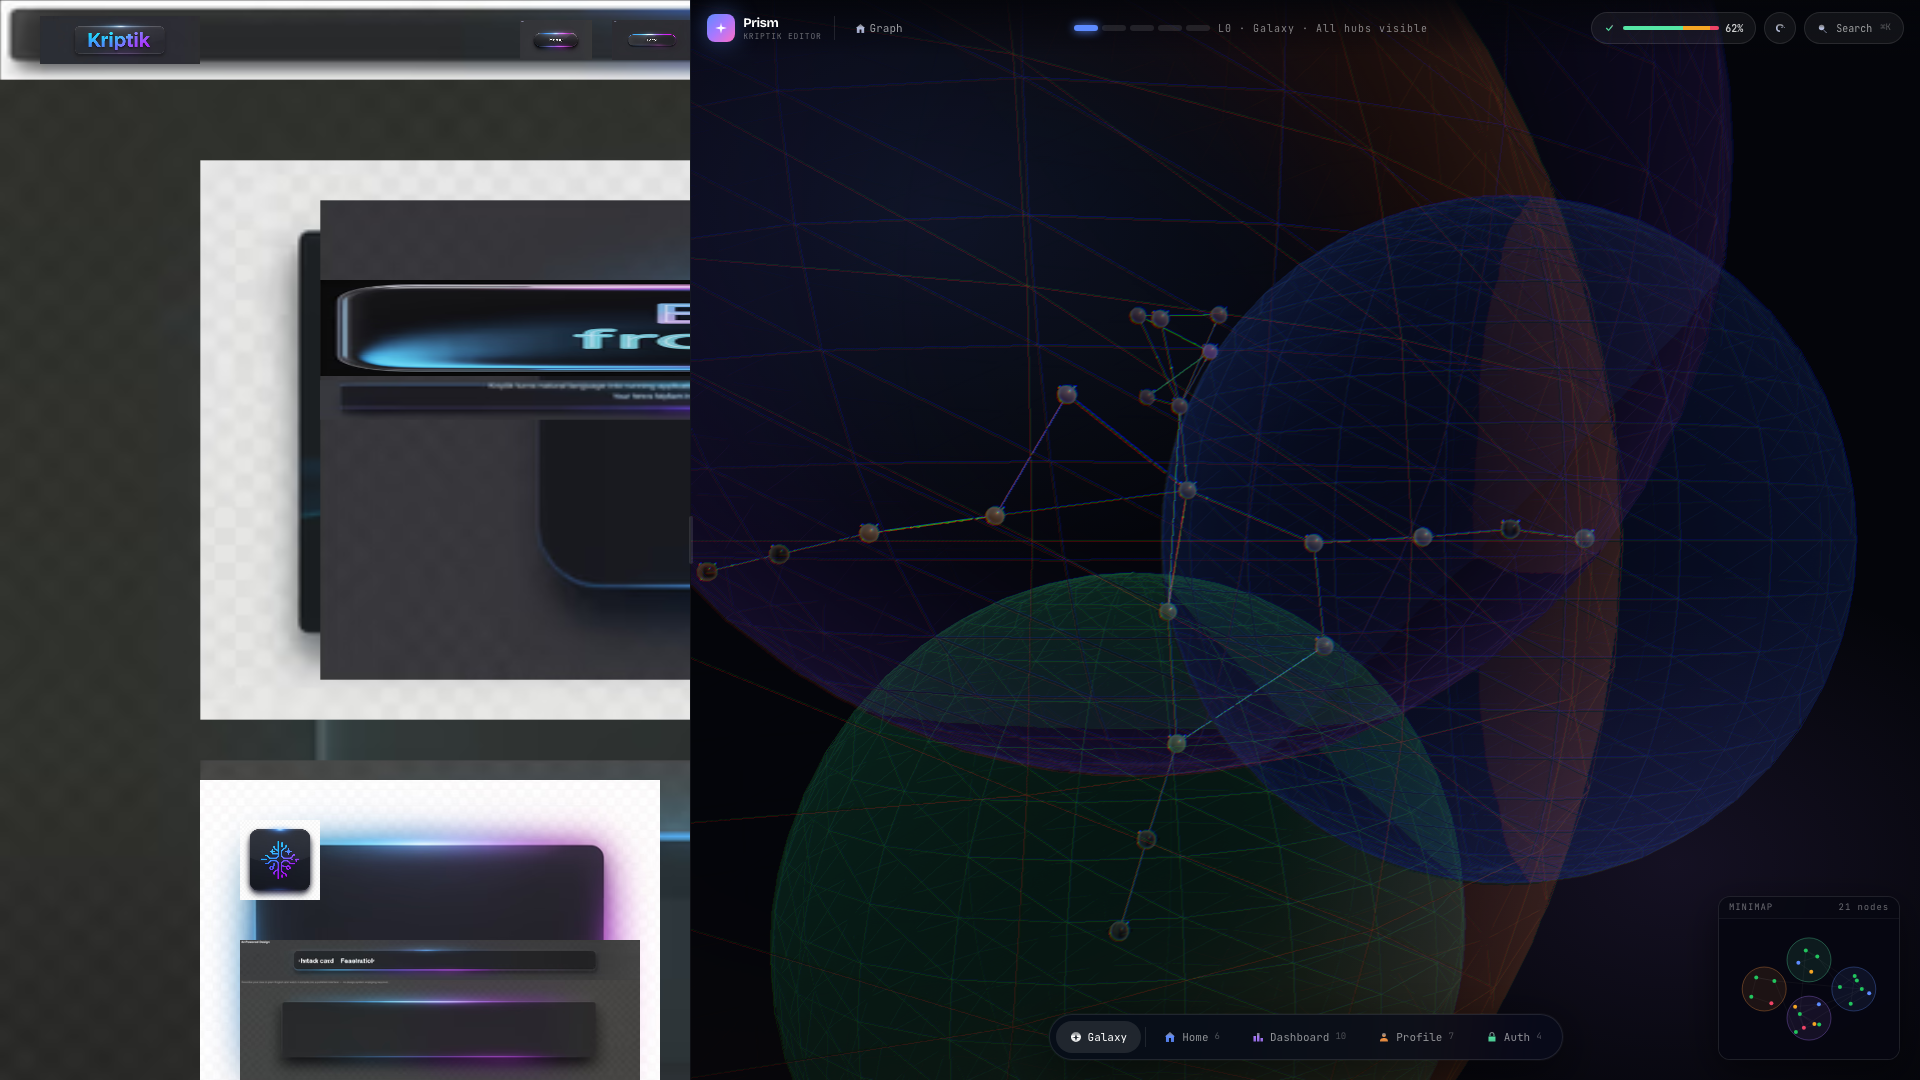
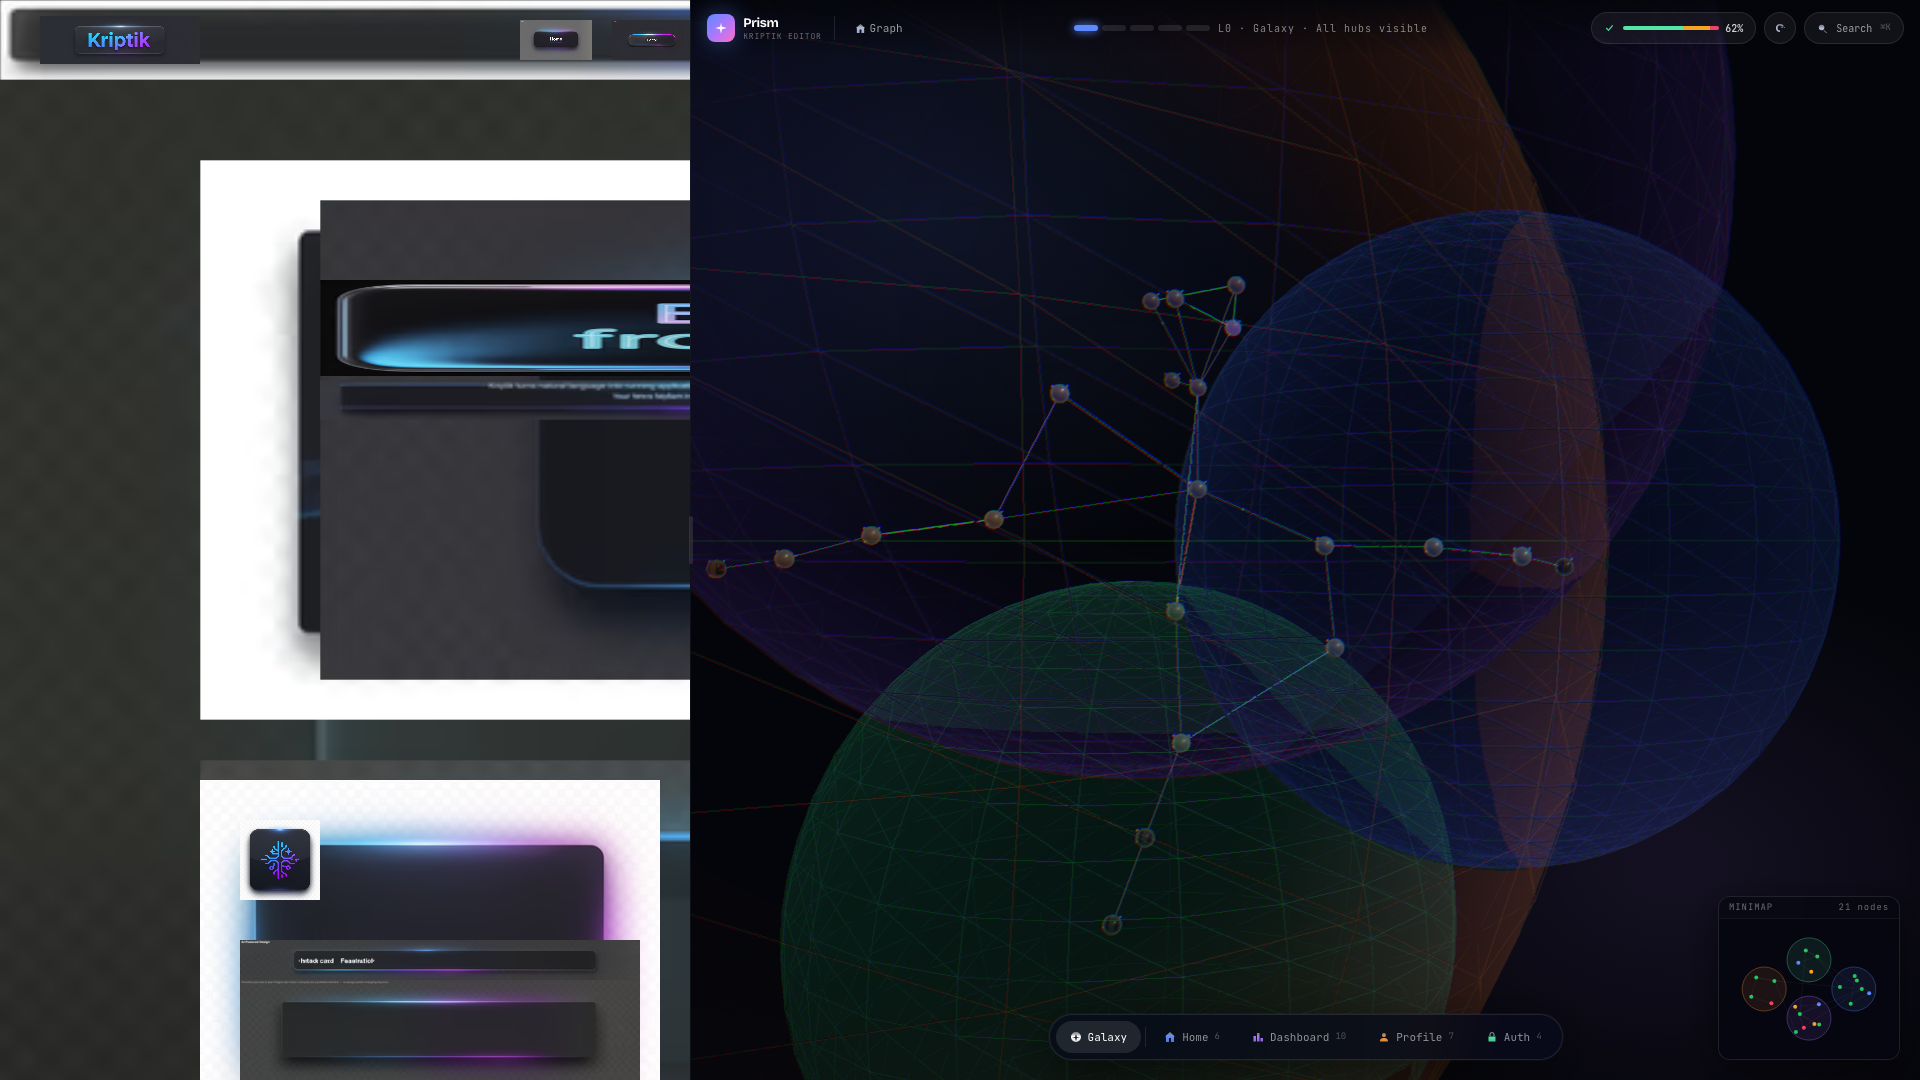
prism-mock: T01 — hub-router nav scroll + active-section indicator (§10.14)
New src/lib/prism/player/hub-router.ts resolves 'navigate' events from navbar-
link / navbar-logo / footer-link nodes into GSAP-driven viewport scrolls and
broadcasts 'active-section-changed' so navbar-link nodes latch their 'active'
overlay.

- scroll-viewport: expose getScrollY() for tests + debug.
- boot.ts: instantiate router after node materialization (so listeners are
  already registered when the initial active-section-changed emits); expose
  window.__prism = { router, viewport, events, graph, nodes } debug handle;
  tear down in unmount alongside __prismBreakNode.
- navbar-link.js: listen for 'active-section-changed'; when activeNavLinkId
  matches nodeId, make 'active' the resting sprite so pointerout reverts to
  it. pointerover/pointerdown overlays still fire for live feedback. Expose
  container.__debug.getLocked() for the §10.14 acceptance test.
- Route table (boot.ts buildHomeHubRoutes) derives scroll targets from graph
  section-bg node y positions so edits to home-hub.json propagate.

diff --git a/kid-kode-landing/src/lib/prism/player/boot.ts b/kid-kode-landing/src/lib/prism/player/boot.ts
@@ -17,8 +17,9 @@ import { loadAtlas, type Atlas } from './atlas-loader';
 import { loadMsdfFont, type MsdfFont } from './msdf-loader';
 import { loadNodeModule, type NodeCtx, type NodeInstance } from './module-registry';
 import { createScrollViewport, type ScrollViewport } from './scroll-viewport';
-import { createEventBus } from './event-bus';
+import { createEventBus, type EventBus } from './event-bus';
 import { createStateManager } from './state-manager';
+import { createHubRouter, type HubRoute, type HubRouter } from './hub-router';
 import { createLocalBackend } from '../local-backend';
 import { createShr, type Shr } from '../shr';
 
@@ -30,12 +31,50 @@ export interface MountResult {
   atlas: Atlas;
   msdfFont: MsdfFont | null;
   shr: Shr;
+  router: HubRouter;
   unmount: () => void;
+}
+
+export interface PrismDebugHandle {
+  router: HubRouter;
+  viewport: ScrollViewport;
+  events: EventBus;
+  graph: CompiledGraph;
+  nodes: Map<string, NodeInstance>;
 }
 
 declare global {
   // eslint-disable-next-line no-var
   var __prismBreakNode: ((nodeId: string) => void) | undefined;
+  // eslint-disable-next-line no-var
+  var __prism: PrismDebugHandle | undefined;
+}
+
+// Section routing table for the home hub. Each entry says "when node X emits
+// `navigate`, scroll to Y and light up navbar link Z". Scroll targets are
+// resolved from the graph at boot (hero-section-bg, feature-grid-section-bg,
+// settings-section-bg, footer-bg) so they track layout edits.
+function buildHomeHubRoutes(graph: CompiledGraph): HubRoute[] {
+  const yOf = (nodeId: string, fallback: number) => {
+    const node = graph.nodes.find((n) => n.nodeId === nodeId);
+    return node?.visual?.transform?.y ?? fallback;
+  };
+  const heroY     = yOf('hero-section-bg',         160);
+  const featuresY = yOf('feature-grid-section-bg', 760);
+  const settingsY = yOf('settings-section-bg',    1600);
+  const footerY   = yOf('footer-bg',              2200);
+
+  return [
+    { sourceNodeId: 'navbar-link-home',    scrollY: 0,         sectionId: 'home',     activeNavLinkId: 'navbar-link-home'    },
+    { sourceNodeId: 'navbar-link-editor',  scrollY: heroY,     sectionId: 'hero',     activeNavLinkId: 'navbar-link-editor'  },
+    { sourceNodeId: 'navbar-link-docs',    scrollY: featuresY, sectionId: 'features', activeNavLinkId: 'navbar-link-docs'    },
+    { sourceNodeId: 'navbar-link-pricing', scrollY: settingsY, sectionId: 'settings', activeNavLinkId: 'navbar-link-pricing' },
+    { sourceNodeId: 'navbar-logo',         scrollY: 0,         sectionId: 'home',     activeNavLinkId: 'navbar-link-home'    },
+    { sourceNodeId: 'footer-logo',         scrollY: 0,         sectionId: 'home',     activeNavLinkId: 'navbar-link-home'    },
+    { sourceNodeId: 'footer-link-privacy', scrollY: footerY,   sectionId: 'footer',   activeNavLinkId: null                  },
+    { sourceNodeId: 'footer-link-terms',   scrollY: footerY,   sectionId: 'footer',   activeNavLinkId: null                  },
+    { sourceNodeId: 'footer-link-contact', scrollY: footerY,   sectionId: 'footer',   activeNavLinkId: null                  },
+  ];
 }
 
 export async function mount(canvas: HTMLCanvasElement, prismUrl: string): Promise<MountResult> {
@@ -153,8 +192,28 @@ export async function mount(canvas: HTMLCanvasElement, prismUrl: string): Promis
   });
   shr.attach();
 
+  // Hub-router — resolves navbar/footer `navigate` events into GSAP scrolls
+  // and broadcasts `active-section-changed` for navbar-link nodes to latch
+  // their 'active' overlay. Created AFTER node materialization so each
+  // navbar-link has already registered its `active-section-changed` listener
+  // by the time the router emits its initial state.
+  const router = createHubRouter({
+    events,
+    viewport,
+    routes: buildHomeHubRoutes(graph),
+    initialSectionId: 'home',
+    initialNavLinkId: 'navbar-link-home',
+  });
+
   if (typeof window !== 'undefined') {
     globalThis.__prismBreakNode = (nodeId: string) => shr.breakNode(nodeId);
+    globalThis.__prism = {
+      router,
+      viewport,
+      events,
+      graph,
+      nodes: instancesByNode,
+    };
   }
 
   return {
@@ -165,13 +224,18 @@ export async function mount(canvas: HTMLCanvasElement, prismUrl: string): Promis
     atlas,
     msdfFont,
     shr,
+    router,
     unmount() {
+      router.destroy();
       shr.detach();
       for (const i of instancesByNode.values()) i.teardown();
       viewport.destroy();
       atlas.destroy();
       app.destroy(true, { children: true });
-      if (typeof window !== 'undefined') delete globalThis.__prismBreakNode;
+      if (typeof window !== 'undefined') {
+        delete globalThis.__prismBreakNode;
+        delete globalThis.__prism;
+      }
     },
   };
 }

diff --git a/kid-kode-landing/src/lib/prism/player/hub-router.ts b/kid-kode-landing/src/lib/prism/player/hub-router.ts
@@ -1,0 +1,93 @@
+// Prism hub-router — the virtual node that every navbar-link / navbar-logo /
+// footer-link targets with its `navigate` event. Resolves the event's source
+// nodeId to a scroll target and (optionally) an active navbar-link id, drives
+// the viewport GSAP scroll, and emits `active-section-changed` so navbar-link
+// nodes can lock their 'active' overlay layer.
+//
+// Satisfies §10.14 (verbatim from spec extract):
+//   "Nav link clicks (e.g., 'Features') scroll-animate to the corresponding
+//   section using GSAP, with the active section indicated in the navbar via
+//   overlay state."
+//
+// The routing table is passed in rather than derived — boot.ts owns the
+// mapping from source node → section (since it knows the current hub graph).
+
+import type { EventBus } from './event-bus';
+import type { ScrollViewport } from './scroll-viewport';
+
+export interface HubRoute {
+  sourceNodeId: string;        // e.g. 'navbar-link-editor'
+  scrollY: number;             // content-space y to scroll to
+  sectionId: string;           // logical section id ('home', 'hero', ...)
+  activeNavLinkId: string | null; // which navbar-link to light up (null = none)
+}
+
+export interface ActiveSectionPayload {
+  sectionId: string;
+  activeNavLinkId: string | null;
+}
+
+export interface HubRouter {
+  readonly routes: ReadonlyMap<string, HubRoute>;
+  readonly activeSectionId: string | null;
+  readonly activeNavLinkId: string | null;
+  navigate(sourceNodeId: string): boolean;
+  setActive(sectionId: string, activeNavLinkId: string | null): void;
+  destroy(): void;
+}
+
+export interface HubRouterOptions {
+  events: EventBus;
+  viewport: ScrollViewport;
+  routes: HubRoute[];
+  duration?: number;
+  initialSectionId?: string;
+  initialNavLinkId?: string | null;
+}
+
+export function createHubRouter(opts: HubRouterOptions): HubRouter {
+  const routes = new Map<string, HubRoute>(opts.routes.map((r) => [r.sourceNodeId, r]));
+  const duration = opts.duration ?? 0.8;
+  let activeSectionId: string | null = opts.initialSectionId ?? null;
+  let activeNavLinkId: string | null = opts.initialNavLinkId ?? null;
+
+  function broadcastActive() {
+    const payload: ActiveSectionPayload = { sectionId: activeSectionId ?? '', activeNavLinkId };
+    opts.events.emit('active-section-changed', payload);
+  }
+
+  function setActive(sectionId: string, navLinkId: string | null) {
+    activeSectionId = sectionId;
+    activeNavLinkId = navLinkId;
+    broadcastActive();
+  }
+
+  function navigate(sourceNodeId: string): boolean {
+    const route = routes.get(sourceNodeId);
+    if (!route) return false;
+    opts.viewport.scrollTo(route.scrollY, { duration });
+    if (activeSectionId !== route.sectionId || activeNavLinkId !== route.activeNavLinkId) {
+      activeSectionId = route.sectionId;
+      activeNavLinkId = route.activeNavLinkId;
+      broadcastActive();
+    }
+    return true;
+  }
+
+  const offNavigate = opts.events.on('navigate', (payload) => {
+    const source = (payload as { source?: unknown })?.source;
+    if (typeof source !== 'string') return;
+    navigate(source);
+  });
+
+  if (activeSectionId !== null) broadcastActive();
+
+  return {
+    routes,
+    get activeSectionId() { return activeSectionId; },
+    get activeNavLinkId() { return activeNavLinkId; },
+    navigate,
+    setActive,
+    destroy() { offNavigate(); },
+  };
+}

diff --git a/kid-kode-landing/src/lib/prism/mock-app-source/nodes/navbar-link.js b/kid-kode-landing/src/lib/prism/mock-app-source/nodes/navbar-link.js
@@ -1,5 +1,12 @@
 // Prism node: navbar-link-{home,editor,docs,pricing} — 3-state layer-swap
 // (default/hover/active) with pointertap emitting 'navigate'.
+//
+// The 'active' overlay doubles as the hub-router's active-section indicator
+// (§10.14). Listening on the `active-section-changed` event bus, a link
+// 'latches' when the router's activeNavLinkId matches its own nodeId: the
+// 'active' sprite becomes the resting sprite (pointerout reverts to it
+// instead of 'default'). pointerover/pointerdown still show their overlays
+// on top so interactive feedback stays alive on the latched link.
 export function createNode(ctx) {
   const { PIXI, gsap, atlas, regions, transform, events, intent } = ctx;
   const container = new PIXI.Container();
@@ -18,19 +25,44 @@ export function createNode(ctx) {
     sprites[key] = s;
   }
 
+  let locked = false;
+
   function show(key) {
     for (const [k, s] of Object.entries(sprites)) {
       gsap.to(s, { alpha: k === key ? 1 : 0, duration: 0.15 });
     }
   }
 
+  function resting() {
+    return locked && sprites.active ? 'active' : 'default';
+  }
+
   container.on('pointerover', () => show('hover'));
-  container.on('pointerout',  () => show('default'));
+  container.on('pointerout',  () => show(resting()));
   container.on('pointerdown', () => show('active'));
   container.on('pointerup',   () => show('hover'));
   container.on('pointertap',  () => {
     events.emit('navigate', { source: intent.nodeId });
   });
 
-  return { container, teardown: () => container.destroy({ children: true }) };
+  const offActive = events.on('active-section-changed', (payload) => {
+    const next = !!payload && payload.activeNavLinkId === intent.nodeId;
+    if (next === locked) return;
+    locked = next;
+    show(resting());
+  });
+
+  // Debug handle used by tests (T01 / §10.14) and manual devtools inspection.
+  container.__debug = {
+    getLocked: () => locked,
+    getResting: () => resting(),
+  };
+
+  return {
+    container,
+    teardown: () => {
+      offActive();
+      container.destroy({ children: true });
+    },
+  };
 }

diff --git a/kid-kode-landing/src/lib/prism/player/scroll-viewport.ts b/kid-kode-landing/src/lib/prism/player/scroll-viewport.ts
@@ -10,6 +10,7 @@ export interface ScrollViewport {
   content: PIXI.Container;      // where nodes are parented
   setContentHeight(h: number): void;
   scrollTo(y: number, opts?: { duration?: number }): void;
+  getScrollY(): number;
   destroy(): void;
 }
 
@@ -121,6 +122,7 @@ export function createScrollViewport(opts: Options): ScrollViewport {
     content,
     setContentHeight(h) { contentHeight = h; },
     scrollTo,
+    getScrollY() { return scrollY; },
     destroy() {
       canvas.removeEventListener('wheel', onWheel);
       canvas.removeEventListener('touchstart', onTouchStart);
